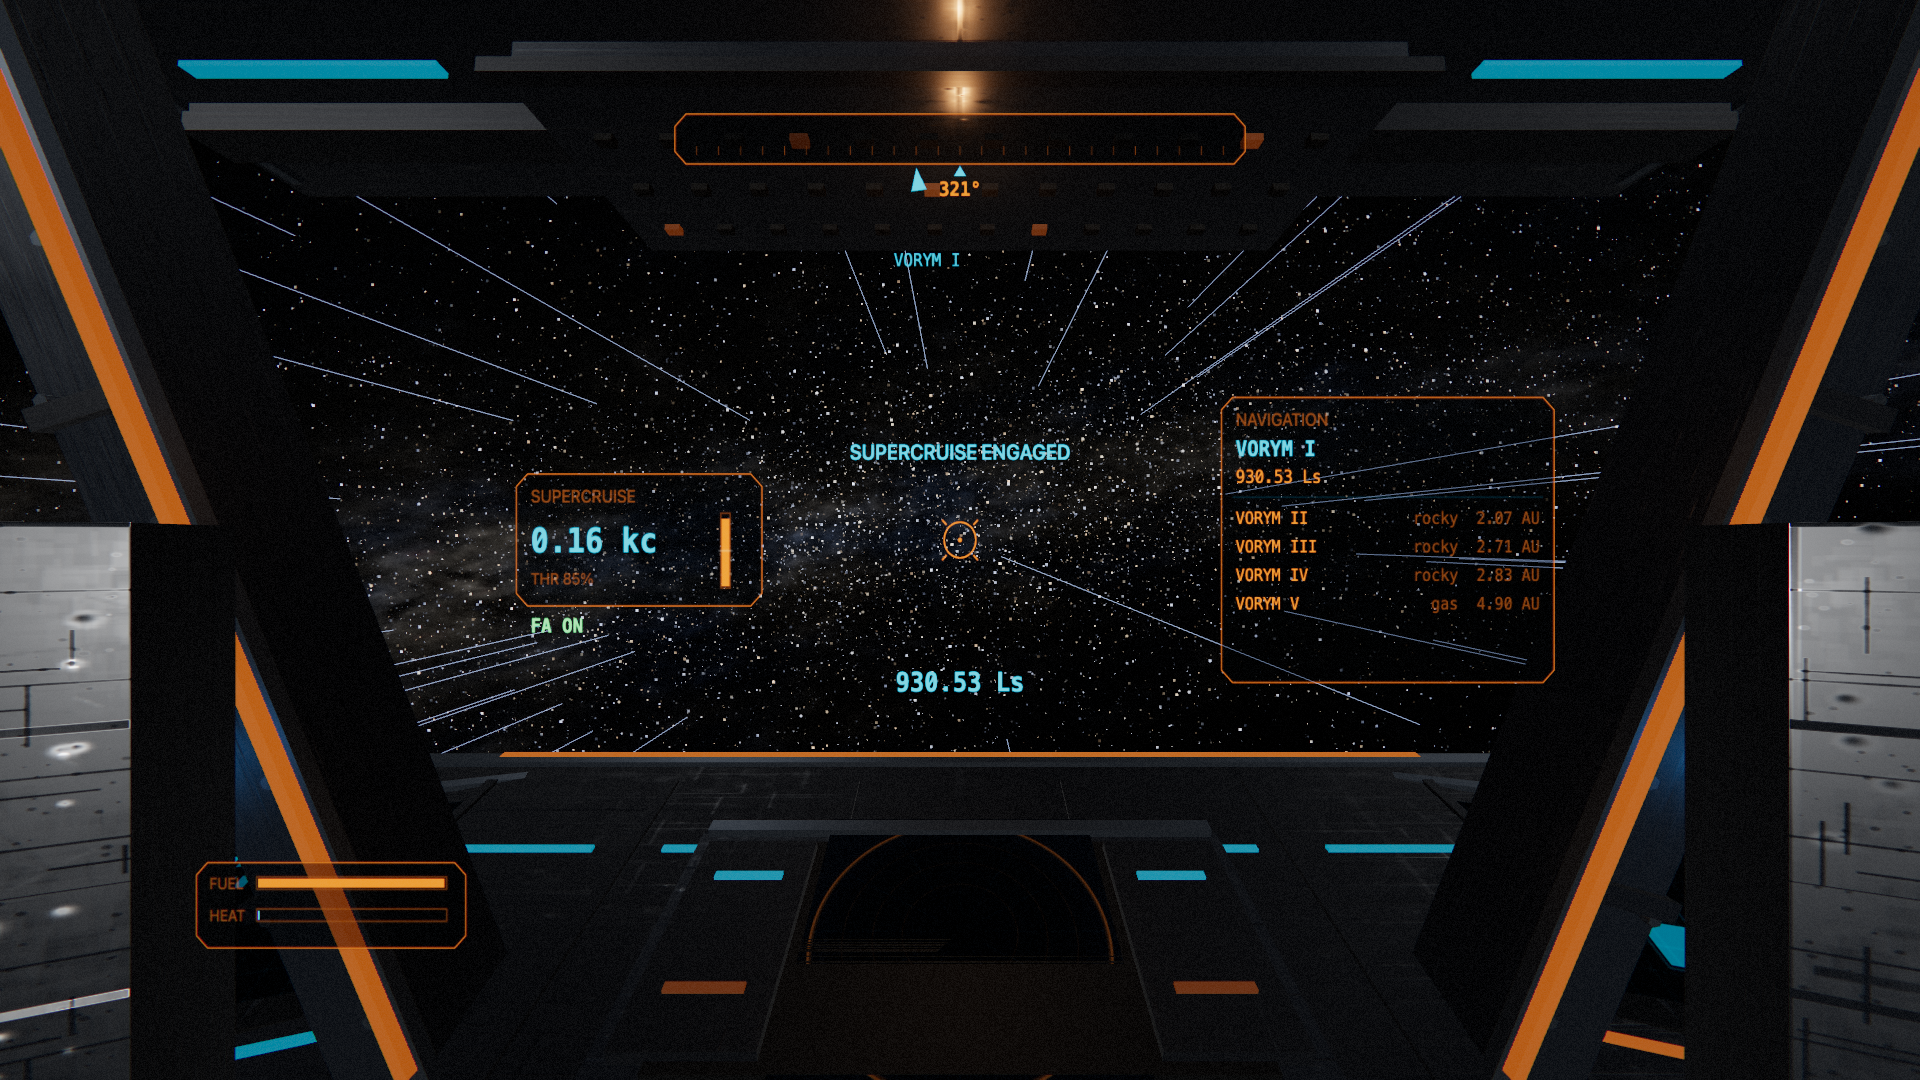
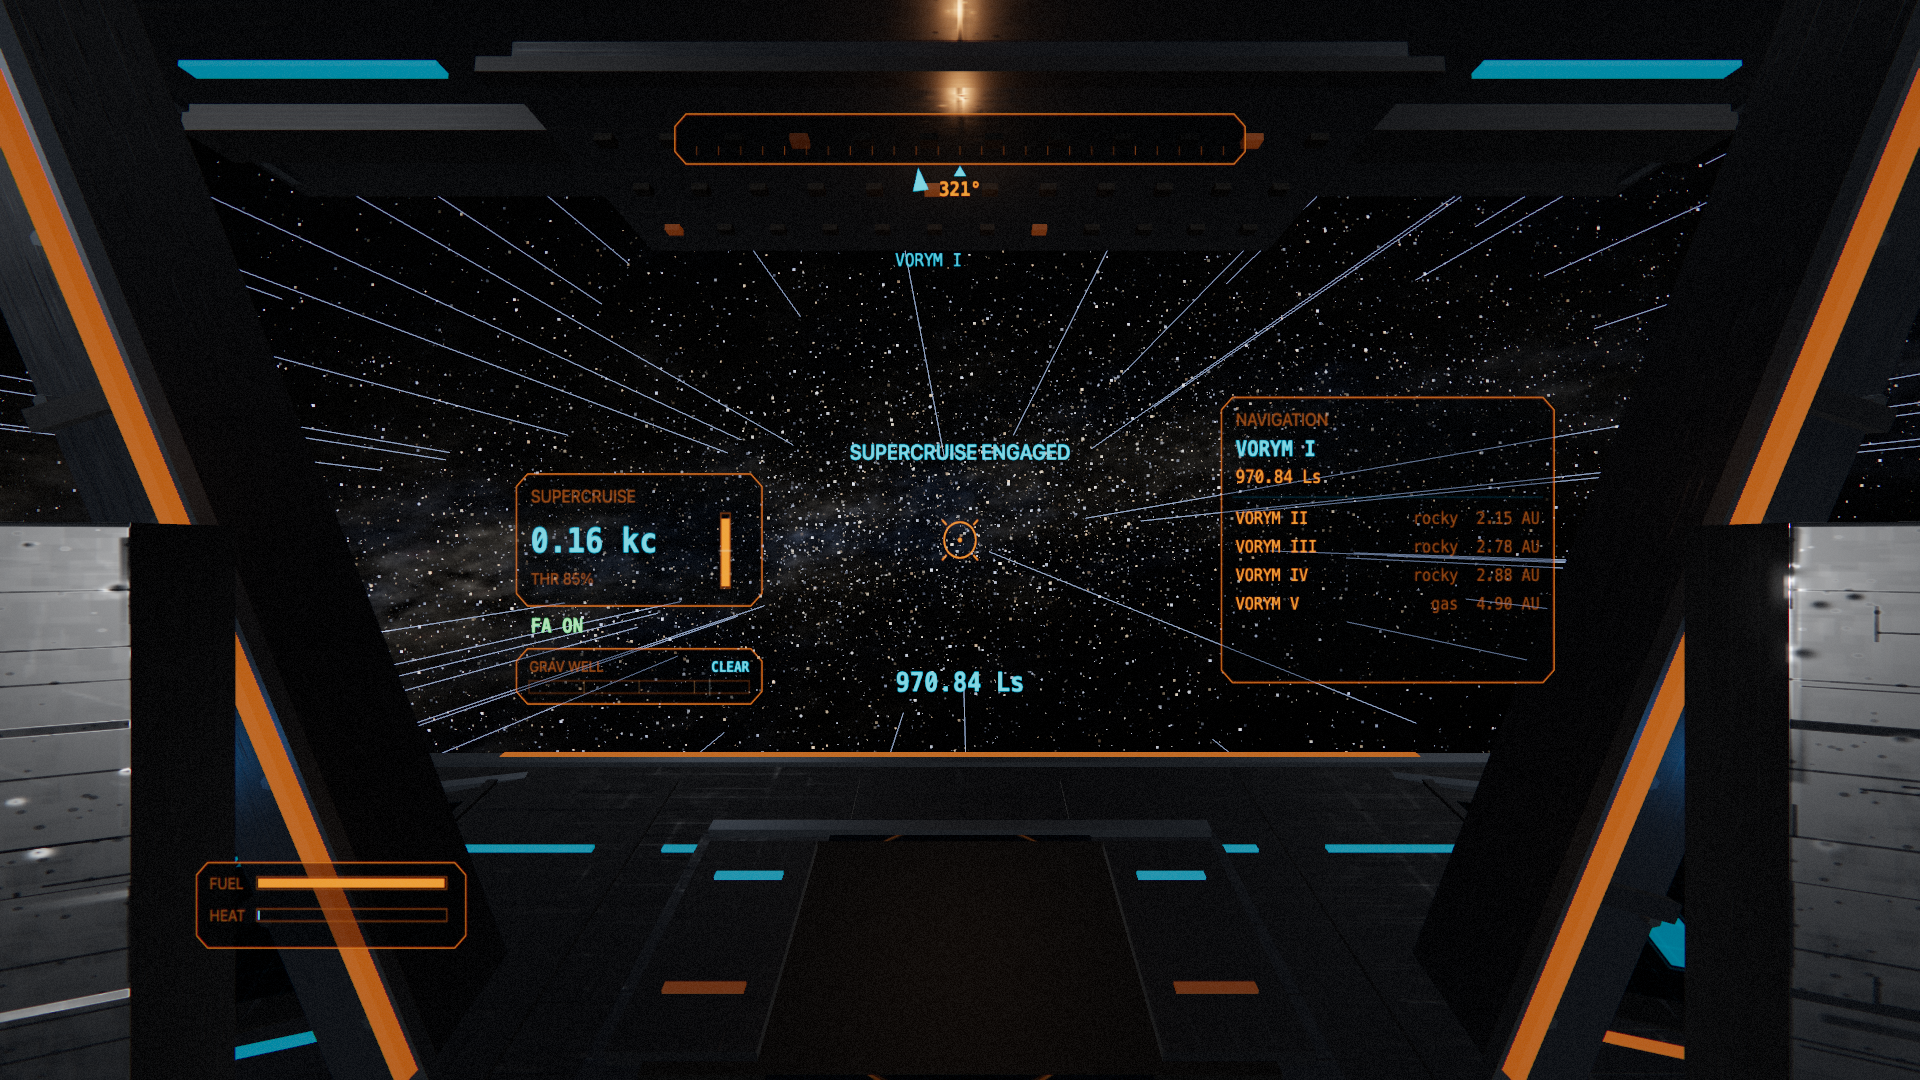
Add the supercruise gravity-well indicator to the HUD
The v1 contract called for a gravity-well bar in the supercruise cluster, but
nothing ever carried the value across: SupercruiseController.wellFactor() was
recomputed every frame and never read by anything. Players had no way to see
the speed cap tightening as they closed on a body — the one instrument the
approach technique in PLAYGUIDE.md depends on.

- types.ts: HUDState gains `wellFactor` (0..1, zero outside supercruise). This
  edits a file the contract freezes, so it is recorded in ARCHITECTURE.md.
- game.ts: forwards sc.wellFactor() into the HUD state.
- hud.ts: drawGravWell() renders a labelled bar under the speed panel, shown
  only in supercruise. CLEAR (cyan) / FIELD (orange) / BRAKING (red, pulsing),
  with quarter ticks and a threshold mark at the 0.82 braking point.

Verified against the well model by seating the ship at fixed multiples of the
body radius and letting the exponential speed response settle first — sampling
without settling reads zero, because at several hundred c the ship crosses the
entire well between frames:

  30 radii -> 0.00  CLEAR    uncapped
   5 radii -> 0.46  FIELD    capped to 73 km/s
   2 radii -> 0.92  BRAKING  capped to 30 km/s

That last effect is why the guide still tells the player to decelerate manually:
at full throttle the well is crossed before the meter can respond.

PLAYGUIDE.md and MANUAL.md updated to describe the meter and its thresholds.

diff --git a/src/ship/hud.ts b/src/ship/hud.ts
@@ -86,6 +86,7 @@ export class HUD {
     this.drawNav(c, cx, cy, state)
     this.drawBars(c, cx, cy, state)
     this.drawRadar(c, cx, cy, state, dt)
+    this.drawGravWell(c, cx, cy, state)
     this.drawJump(c, cx, cy, state)
     this.drawSCExtras(c, cx, cy, state)
 
@@ -227,6 +228,52 @@ export class HUD {
       c.fillText('BOOST', x + 110, y + 178)
       c.globalAlpha = 1
     }
+  }
+
+  private drawGravWell(c: CanvasRenderingContext2D, cx: number, cy: number, s: HUDState): void {
+    if (!s.supercruise) return
+    const w = THREE.MathUtils.clamp(s.wellFactor, 0, 1)
+    const x = cx - 560
+    const y = cy + 122
+    this.panel(c, x, y, 310, 62)
+
+    const deep = w > .82
+    const tint = w < .30 ? CYAN : w < .82 ? ORANGE : RED
+    c.textAlign = 'left'
+    c.font = `500 17px ${SANS}`
+    c.fillStyle = DIM
+    c.fillText('GRAV WELL', x + 16, y + 26)
+
+    c.textAlign = 'right'
+    c.font = `600 16px ${MONO}`
+    c.fillStyle = tint
+    if (deep) c.globalAlpha = .55 + .45 * Math.sin(performance.now() / 130)
+    c.fillText(w < .04 ? 'CLEAR' : deep ? 'BRAKING' : 'FIELD', x + 294, y + 26)
+    c.globalAlpha = 1
+
+    const bx = x + 16
+    const by = y + 36
+    const bw = 278
+    c.strokeStyle = DIM
+    c.lineWidth = 1
+    c.strokeRect(bx, by, bw, 14)
+    if (w > .002) {
+      c.fillStyle = tint
+      c.fillRect(bx + 2, by + 2, Math.max(2, (bw - 4) * w), 10)
+    }
+    c.strokeStyle = 'rgba(255,190,120,.35)'
+    for (const t of [.25, .5, .75]) {
+      c.beginPath()
+      c.moveTo(bx + bw * t, by)
+      c.lineTo(bx + bw * t, by + 14)
+      c.stroke()
+    }
+    c.strokeStyle = '#ffffff66'
+    c.beginPath()
+    c.moveTo(bx + bw * .82, by - 3)
+    c.lineTo(bx + bw * .82, by + 17)
+    c.stroke()
+    c.textAlign = 'left'
   }
 
   private drawHeading(c: CanvasRenderingContext2D, cx: number, s: HUDState): void {

diff --git a/src/engine/game.ts b/src/engine/game.ts
@@ -199,6 +199,7 @@ export class Game {
       fuel: this.fuel,
       supercruise: !!this.sc?.active,
       scLabel: this.sc && this.sc.active ? this.sc.speedLabel() : '',
+      wellFactor: this.sc && this.sc.active ? this.sc.wellFactor() : 0,
       jumpPhase: this.fx ? this.fx.phase : 'idle',
       jumpProgress: this.fx ? this.fx.progress : 0,
       nearestName,

diff --git a/src/engine/types.ts b/src/engine/types.ts
@@ -133,6 +133,7 @@ export interface HUDState {
   fuel: number
   supercruise: boolean
   scLabel: string
+  wellFactor: number
   jumpPhase: HyperspaceLike['phase']
   jumpProgress: number
   nearestName: string

diff --git a/PLAYGUIDE.md b/PLAYGUIDE.md
@@ -42,7 +42,7 @@
 
 ## 2. 最初の1分：画面で見るのは3か所だけ
 
-最初はHUDの情報量に圧倒されますが、見るのは3か所で足ります。
+最初はHUDの情報量に圧倒されますが、見るのは3か所で足ります（④はスーパークルーズ中だけ出るので、あとで覚えれば十分です）。
 
 ```
                     ┌─ ①レティクル（画面中央の小さい丸）
@@ -52,7 +52,11 @@
    │   170    │        SPEED = いまの速さ（m/s）
    │ THR 45%  │        THR   = スロットル（エンジン出力）
    └──────────┘
-   FA ON                                    ┌─────────────┐
+   FA ON
+   ┌──────────┐
+   │GRAV WELL │ ←── ④重力井戸メーター（スーパークルーズ中だけ出ます）
+   └──────────┘
+                                            ┌─────────────┐
                                             │ NAVIGATION  │ ←③天体リスト（右）
                                             │ DRAYM III   │  一番上（水色）が
                                             │ 0.04 Ls     │  「いま一番近い天体」
@@ -163,17 +167,41 @@
 残り 2 AU 以上   →  THR 80%  くらいで巡航
 残り 1 AU 前後   →  THR 70%  に落とす
 残り 500 Ls     →  THR 65%
-残り 100 Ls     →  THR 60%
+残り 100 Ls     →  THR 60%      ← このあたりで GRAV WELL が FIELD になる
 残り  20 Ls     →  THR 50% 以下でそっと寄る
-到着            →  J で解除
+GRAV WELL が    →  ほぼ到着。J で解除
+BRAKING に
 ```
 
 **85% を超えると人間の反応では止まれません。** 慣れるまでは 80% を上限にするのが安全です。
 行き過ぎたら、180度向き直して（`A` か `D` を押しっぱなし）戻ればやり直せます。
 
-> 天体に近づくと **重力井戸** が働き、速度に自動で上限がかかります。
-> ただし現在この効きぐあいを示すメーターは HUD にありません。また全開で突っ込むと
-> 重力井戸ごと通り過ぎてしまいます。**減速は自分でやる**と考えてください。
+### 重力井戸メーター（GRAV WELL）
+
+天体に近づくと **重力井戸** が働き、スーパークルーズの速度に自動で上限がかかります。
+その効きぐあいが、左の速度パネルの下の **GRAV WELL** バーに出ます（SC 中のみ表示）。
+
+| 表示 | 色 | 意味 |
+|---|---|---|
+| `CLEAR` | 水色 | 天体から十分離れている。速度制限なし |
+| `FIELD` | オレンジ | 重力圏に入った。速度に上限がかかり始めている |
+| `BRAKING` | 赤・点滅 | 深く入っている。ほぼ最低速まで落とされる |
+
+バーの上にある **白い縦線が `BRAKING` に変わる境目** です。
+この線に近づいてきたら「もうすぐ着く」の合図なので、スロットルを落としてください。
+
+実際に効きます（実測）:
+
+| 天体半径の何倍の距離か | メーター | 速度上限 |
+|---:|---|---:|
+| 30倍 | CLEAR（0%） | 制限なし |
+| 5倍 | FIELD（46%） | 73 km/s まで |
+| 2倍 | BRAKING（92%） | 30 km/s まで |
+
+> ⚠ ただし **全開（THR 100%）で突っ込むと、重力井戸そのものを一瞬で通り過ぎます。**
+> 秒速数億kmでは、メーターが反応する前に天体の裏側へ抜けてしまいます。
+> 重力井戸は「止めてくれる装置」ではなく「近づいた合図」だと思ってください。
+> **減速は自分で始めるのが基本です。**
 
 ---
 

diff --git a/MANUAL.md b/MANUAL.md
@@ -61,8 +61,8 @@ npm run preview    # ビルド結果の確認
 - **FA OFF**: ニュートン力学。推力は加速度（60 m/s²）として蓄積、慣性ドリフト持続。真空の挙動。
 
 ### スーパークルーズ中
-- スロットルで速度が指数的に変化（30 km/s → 2001c）
-- 天体に接近すると**重力井戸**が速度上限を強制減衰（EDと同様の減速カーテン）
+- スロットルで速度が指数的に変化（30 km/s → 2001c）。スロットルは 0〜100% のみ有効（マイナスは最低速に丸められます）
+- 天体に接近すると**重力井戸**が速度上限を強制減衰（EDと同様の減速カーテン）。効きぐあいは HUD の GRAV WELL バーで確認できます
 - 速度表示: `km/s` → `c` → `kc` 自動切替
 
 ### ハイパースペースジャンプの流れ
@@ -82,7 +82,8 @@ npm run preview    # ビルド結果の確認
 | FAランプ | 速度パネル下 | `FA ON` 緑 / `FA OFF` 点滅赤 |
 | 方位テープ | 上 | 0-360°、N/E/S/W |
 | NAVIGATION | 右 | 最接近天体・距離（km/Ls/AU）・高度・ターゲット一覧 |
-| FUEL/HEAT | 左下 | 燃料残量・熱（>80%で赤点滅） |
+| GRAV WELL | FAランプ下 | **SC中のみ**。重力井戸の深さ 0-100%。`CLEAR`(水色) / `FIELD`(橙) / `BRAKING`(赤・点滅)。白い縦線が BRAKING の閾値(82%) |
+| FUEL/HEAT | 左下 | 燃料残量・熱（>80%で赤点滅）。※どちらも表示のみで、尽きても影響はありません |
 | レーダー | 下中央 | 全天体を方位で配置。ステム=上下オフセット、スイープ線回転。ダッシュボード中央の凹型スキャナーウェル内に投影される |
 | SC表示 | 中央 | 目的地オーブ/エッジ矢印 + 距離カウントダウン(Ls) |
 

diff --git a/ARCHITECTURE.md b/ARCHITECTURE.md
@@ -164,6 +164,21 @@ chromatic aberration, swirl, and a hot core added after the shear modulation.
 
 **Post.** `UnrealBloomPass` now runs at half resolution (strength .62, radius .62, threshold 1.02).
 
+## Frozen-type change
+
+`HUDState` (in the frozen `src/engine/types.ts`) gained one field:
+
+```ts
+wellFactor: number   // 0..1 supercruise gravity-well depth, 0 when not in supercruise
+```
+
+The v1 contract specified a gravity-well bar in the supercruise HUD cluster, but nothing carried
+the value to the HUD: `SupercruiseController.wellFactor()` was computed every frame and never read.
+`Game.buildHUDState()` now forwards it and `HUD.drawGravWell()` renders it as a labelled bar below
+the speed panel — CLEAR / FIELD / BRAKING, with a threshold tick at the 0.82 braking point. Measured
+against the well model (`depth = clamp((8 - dist/radius)/6.5, 0, 1)`): 30 radii → 0.00 uncapped,
+5 radii → 0.46 capped to 73 km/s, 2 radii → 0.92 capped to 30 km/s.
+
 ## Bug fixes
 - **Supercruise streaks (`fx/supercruise.ts`).** Anchors were stored as *absolute* world positions
   in a `Float32Array`. At ~1e11 m the float32 quantum is ~8 km, so `anchor - shipPos` collapsed to
